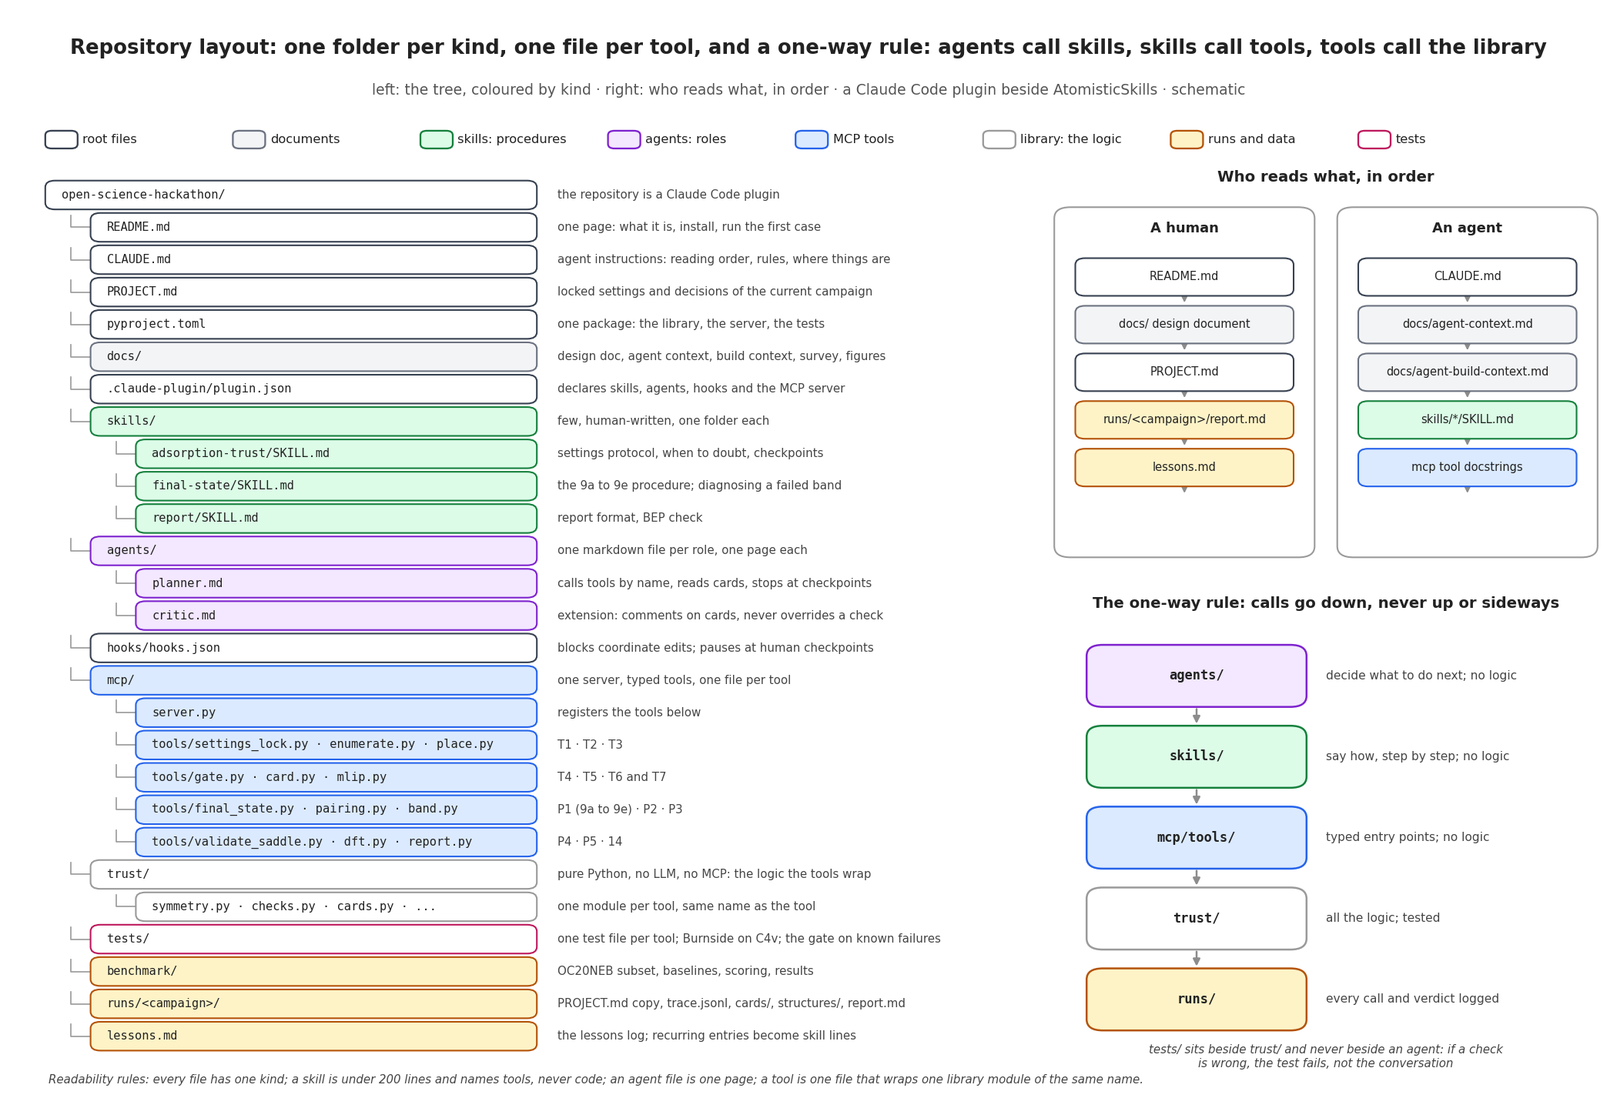
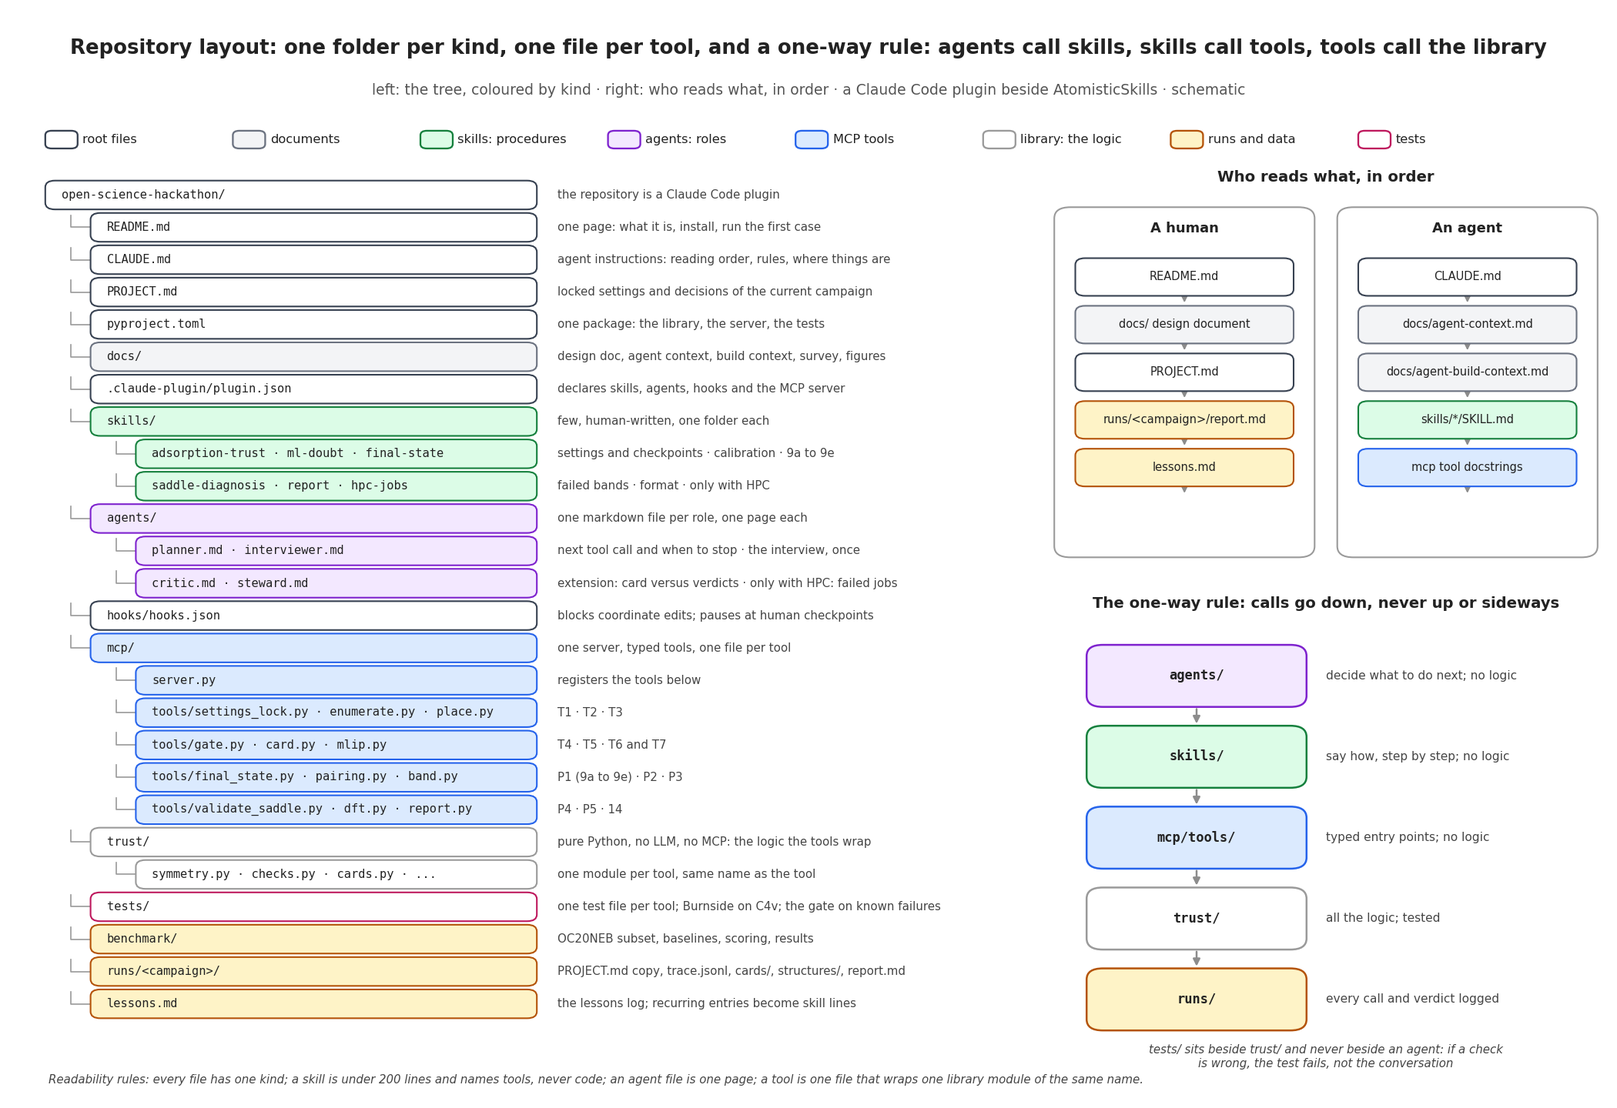
Add compute lanes and the agent and skill roster with its evidence
docs/agent-build-context.md: section 9 gains the compute lanes (laptop, GPU, HPC, and what replaces HPC in the hackathon) and the roster: five roles with what each decides, six skills of ours and six reused, with the evidence for keeping both short.
docs/adsorption-agent-workflow.md: paragraph and figure 25 under the build plan. docs/agent-context.md: lanes and roster in section 18.
docs/figures: figure 25 and script; figure 24 tree updated. READMEs: figure count.

Changed region(s): [[0.031, 0.4062, 0.5571, 0.9688]]

diff --git a/docs/figures/src/25-compute-and-roster.py b/docs/figures/src/25-compute-and-roster.py
@@ -1,0 +1,74 @@
+"""Figure 25: where each step runs (laptop, GPU, HPC) and the roster of agents and skills, with why it is short."""
+import sys, os
+sys.path.insert(0, os.path.dirname(__file__))
+from _style import *
+from matplotlib.patches import FancyBboxPatch
+
+fig = plt.figure(figsize=(14, 8.6))
+ax = fig.add_axes([0, 0, 1, 1]); ax.set_xlim(0, 1); ax.set_ylim(0, 1); ax.axis("off")
+title(fig, "HPC is needed for DFT and for nothing else; the roster is five roles and six skills at most, and the evidence says keep it short",
+      "left: where each step runs · right: agents and skills, core versus extension versus only with HPC · schematic")
+
+# ---------- left: compute lanes
+LX, LW = 0.03, 0.56
+lanes = [("Laptop: code", "#f3f4f6", "#6b7280", 0.79,
+          ["1 lock: read the protocol", "2 to 4 enumerate, place", "4.1, 6, 9d the gate", "9a, 9b sites and pairs", "10 mapping, pairing", "12 saddle checks", "14 report, trace"]),
+         ("GPU: machine-learned potential", HI_FACE, HI_EDGE, 0.60,
+          ["5 ML relaxation", "7 committee disagreement", "9c relax each pair", "11 ML band, climbing image", "12 ML frequencies"]),
+         ("HPC: DFT", "#fee2e2", "#b91c1c", 0.41,
+          ["1 settings sweep on E_ads", "7 calibration labels", "13 DFT single points, relax", "benchmark DFT check", "DFT frequencies, optional"])]
+for name, fc, ec, y, chips in lanes:
+    ax.add_patch(FancyBboxPatch((LX, y - 0.15), LW, 0.15, boxstyle="round,pad=0.003,rounding_size=0.01", fc=fc, ec=ec, lw=1.2, zorder=1))
+    ax.text(LX + 0.01, y - 0.012, name, ha="left", va="top", fontsize=9, fontweight="bold", color=ec, zorder=3)
+    cx, cy = LX + 0.012, y - 0.045
+    for c in chips:
+        w = 0.0062 * len(c) + 0.014
+        if cx + w > LX + LW - 0.01:
+            cx = LX + 0.012; cy -= 0.042
+        ax.add_patch(FancyBboxPatch((cx, cy - 0.028), w, 0.028, boxstyle="round,pad=0.002,rounding_size=0.008", fc="white", ec=ec, lw=0.9, zorder=2))
+        ax.text(cx + w / 2, cy - 0.014, c, ha="center", va="center", fontsize=7.2, zorder=3)
+        cx += w + 0.008
+# hackathon substitute for the HPC lane
+ax.add_patch(FancyBboxPatch((LX, 0.115), LW, 0.11, boxstyle="round,pad=0.003,rounding_size=0.01", fc="white", ec="#b91c1c", lw=1.2, ls="--", zorder=1))
+ax.text(LX + 0.01, 0.213, "Without HPC in the hackathon: the HPC lane is replaced, not skipped", ha="left", va="top", fontsize=8.6, fontweight="bold", color="#991b1b")
+ax.text(LX + 0.01, 0.125, "settings: take OC20's RPBE and PAW values instead of sweeping, since the benchmark is OC20NEB\n"
+                           "labels and ground truth: the released OC20NEB DFT bands stand in for steps 7 and 13 and the benchmark check\n"
+                           "one DFT check of the propagation experiment: run once beforehand, on any cluster, and recorded",
+        ha="left", va="bottom", fontsize=7.2, linespacing=1.3)
+ax.text(LX, 0.08, "Cost, from experience and not measured here: an ML relaxation of a small Pt(111) cell takes seconds on one GPU and an ML band minutes;\n"
+                   "the same relaxation in DFT takes core-hours and a DFT band many core-hours. Only the red lane needs a queue.",
+        ha="left", va="top", fontsize=7.0, style="italic", color="#444444")
+
+# ---------- right: roster
+RX = 0.63
+ax.text(RX + 0.175, 0.80, "Agents: one sentence each on what it decides", ha="center", va="center", fontsize=9, fontweight="bold")
+agents = [("planner", "the next tool call, and when to stop", "core", HI_FACE, HI_EDGE),
+          ("interviewer", "what the Formulate interview locks into PROJECT.md", "core, before the run", HI_FACE, HI_EDGE),
+          ("critic", "whether a card and its verdicts disagree; never overrides", "extension", "#f3e8ff", "#7e22ce"),
+          ("job steward", "resubmit, adjust or escalate a failed DFT job", "only with HPC", "#fee2e2", "#b91c1c"),
+          ("reviewer", "whether the report would pass peer review", "reused skill, not a new role", "#dcfce7", "#15803d")]
+y = 0.765
+for n, d, tag, fc, ec in agents:
+    ax.add_patch(FancyBboxPatch((RX, y - 0.052), 0.35, 0.052, boxstyle="round,pad=0.003,rounding_size=0.01", fc=fc, ec=ec, lw=1.1, zorder=2))
+    ax.text(RX + 0.01, y - 0.014, n, ha="left", va="center", fontsize=8.4, fontweight="bold", zorder=3)
+    ax.text(RX + 0.34, y - 0.014, tag, ha="right", va="center", fontsize=6.8, color=ec, style="italic", zorder=3)
+    ax.text(RX + 0.01, y - 0.038, d, ha="left", va="center", fontsize=7.2, zorder=3)
+    y -= 0.06
+
+ax.text(RX + 0.175, 0.445, "Skills: ours in green, reused from AtomisticSkills in grey", ha="center", va="center", fontsize=9, fontweight="bold")
+ours = ["adsorption-trust: settings protocol, checkpoints", "ml-doubt: calibration and escalation", "final-state: 9a to 9e, pairing",
+        "saddle-diagnosis: what to do when a band fails", "report: format, BEP check", "hpc-jobs: only with HPC"]
+reused = ["ml-committee-uncertainty", "ml-mlip-benchmark", "ml-mace-finetune", "chem-neb-barrier", "chem-thermochemistry", "general-peer-review"]
+y = 0.415
+for i in range(6):
+    ax.add_patch(FancyBboxPatch((RX, y - 0.03), 0.21, 0.03, boxstyle="round,pad=0.002,rounding_size=0.008", fc="#dcfce7", ec="#15803d", lw=0.9, zorder=2))
+    ax.text(RX + 0.105, y - 0.015, ours[i], ha="center", va="center", fontsize=6.9, zorder=3)
+    ax.add_patch(FancyBboxPatch((RX + 0.218, y - 0.03), 0.132, 0.03, boxstyle="round,pad=0.002,rounding_size=0.008", fc="#f3f4f6", ec="#6b7280", lw=0.9, zorder=2))
+    ax.text(RX + 0.284, y - 0.015, reused[i], ha="center", va="center", fontsize=6.9, zorder=3)
+    y -= 0.036
+
+ax.add_patch(FancyBboxPatch((RX, 0.05), 0.35, 0.13, boxstyle="round,pad=0.003,rounding_size=0.01", fc="white", ec=EDGE, lw=1.0, zorder=1))
+ax.text(RX + 0.175, 0.17, "Why short", ha="center", va="top", fontsize=8.6, fontweight="bold")
+ax.text(RX + 0.175, 0.056, "skill selection precision falls from 29.6 % with 5 skills to 3.3 % with 100\n(Demystifying Agent Skills); curated skills gain 16.2 points, self-written\nskills about none (SkillsBench); CatDT runs eight agents and has published\nno result; in the Virtual Lab the human wrote about 1 % of the words and\nset every agenda. Tools do the work; a role is added only when a human\ncan say in one sentence what it decides.",
+        ha="center", va="bottom", fontsize=6.9, linespacing=1.28)
+finish(fig, os.path.join(os.path.dirname(__file__), "..", "25-compute-and-roster.png"))

diff --git a/docs/figures/src/24-repository-layout.py b/docs/figures/src/24-repository-layout.py
@@ -32,12 +32,11 @@ tree = [
  (1, "docs", "docs/", "design doc, agent context, build context, survey, figures"),
  (1, "root", ".claude-plugin/plugin.json", "declares skills, agents, hooks and the MCP server"),
  (1, "skill", "skills/", "few, human-written, one folder each"),
- (2, "skill", "adsorption-trust/SKILL.md", "settings protocol, when to doubt, checkpoints"),
- (2, "skill", "final-state/SKILL.md", "the 9a to 9e procedure; diagnosing a failed band"),
- (2, "skill", "report/SKILL.md", "report format, BEP check"),
+ (2, "skill", "adsorption-trust · ml-doubt · final-state", "settings and checkpoints · calibration · 9a to 9e"),
+ (2, "skill", "saddle-diagnosis · report · hpc-jobs", "failed bands · format · only with HPC"),
  (1, "agent", "agents/", "one markdown file per role, one page each"),
- (2, "agent", "planner.md", "calls tools by name, reads cards, stops at checkpoints"),
- (2, "agent", "critic.md", "extension: comments on cards, never overrides a check"),
+ (2, "agent", "planner.md · interviewer.md", "next tool call and when to stop · the interview, once"),
+ (2, "agent", "critic.md · steward.md", "extension: card versus verdicts · only with HPC: failed jobs"),
  (1, "root", "hooks/hooks.json", "blocks coordinate edits; pauses at human checkpoints"),
  (1, "tool", "mcp/", "one server, typed tools, one file per tool"),
  (2, "tool", "server.py", "registers the tools below"),

diff --git a/docs/agent-build-context.md b/docs/agent-build-context.md
@@ -528,12 +528,17 @@ open-science-hackathon/
 ├── docs/                         design document, agent context, build context, survey, figures
 ├── .claude-plugin/plugin.json    declares the skills, agents, hooks and the MCP server
 ├── skills/                       few, human-written, one folder each, under 200 lines each
-│   ├── adsorption-trust/SKILL.md the settings protocol, when to doubt, the checkpoints
-│   ├── final-state/SKILL.md      the 9a to 9e procedure; diagnosing a failed band
-│   └── report/SKILL.md           the report format and the BEP check
+│   ├── adsorption-trust/SKILL.md the settings protocol and the checkpoints
+│   ├── ml-doubt/SKILL.md         calibration against DFT labels and the escalation rule
+│   ├── final-state/SKILL.md      the 9a to 9e procedure and the pairing
+│   ├── saddle-diagnosis/SKILL.md what to do when a band or a saddle fails validation
+│   ├── report/SKILL.md           the report format and the BEP check
+│   └── hpc-jobs/SKILL.md         only with HPC: submission, what custodian handles, what to escalate
 ├── agents/                       one markdown file per role, one page each
-│   ├── planner.md                calls tools by name, reads cards, stops at checkpoints
-│   └── critic.md                 extension: comments on cards, never overrides a check
+│   ├── planner.md                decides the next tool call and when to stop
+│   ├── interviewer.md            runs the Formulate interview; writes PROJECT.md; before the run
+│   ├── critic.md                 extension: whether a card and its verdicts disagree; never overrides
+│   └── steward.md                only with HPC: resubmit, adjust or escalate a failed DFT job
 ├── hooks/hooks.json              blocks coordinate edits; pauses at human checkpoints
 ├── mcp/                          one server, typed tools, one file per tool
 │   ├── server.py                 registers the tools
@@ -564,12 +569,49 @@ Reading orders:
 | A human | `README.md`, the design document in `docs/`, `PROJECT.md`, the run's `report.md`, `lessons.md`      |
 | An agent | `CLAUDE.md`, `docs/agent-context.md`, this file, the skill it was given, the tool docstrings        |
 
+### Compute: what runs where
+
+HPC is needed for DFT and for nothing else. Every check, enumeration, mapping and report runs on a laptop; every machine-learned relaxation, band and frequency runs on one GPU; every DFT step runs on a cluster. Figure 25 of the design document draws the three lanes.
+
+| Lane   | Steps                                                                                              | Without HPC in the hackathon                                                                 |
+|--------|----------------------------------------------------------------------------------------------------|----------------------------------------------------------------------------------------------|
+| Laptop | 1 lock (reads the protocol), 2 to 4, 4.1, 6, 9a, 9b, 9d, 10, 12 checks, 14                         | Unchanged                                                                                    |
+| GPU    | 5, 7 committee, 9c, 11, 12 ML frequencies                                                          | Unchanged; one workstation or cloud GPU                                                      |
+| HPC    | 1 settings sweep, 7 calibration labels, 13, the benchmark DFT check, DFT frequencies (optional)    | Replaced, not skipped: OC20's RPBE and PAW values instead of the sweep; OC20NEB's released DFT bands as labels and ground truth; one DFT check of the propagation experiment run once beforehand and recorded |
+
+Cost, from experience and not measured here: an ML relaxation of a small Pt(111) cell takes seconds on one GPU and an ML band minutes; the same relaxation in DFT takes core-hours and a DFT band many core-hours. The decision is D2 in section 8.
+
+### Agents and skills: the roster and why it is short
+
+Tools do the work. A role is added only when a human can say in one sentence what it decides, and a skill only when it is a procedure a human has written and checked. The evidence in the design document, section 8: skill selection precision falls from 29.6 % with 5 skills to 3.3 % with 100, curated skills gain about 16 points and self-written skills about none, CatDT runs eight agents and has published no result, and in the Virtual Lab the human wrote about 1 % of the words and set every agenda.
+
+| Agent       | Decides                                                       | Status                         |
+|-------------|---------------------------------------------------------------|--------------------------------|
+| planner     | The next tool call, and when to stop                          | Core                           |
+| interviewer | What the Formulate interview locks into PROJECT.md            | Core, runs once before the run |
+| critic      | Whether a card and its verdicts disagree; never overrides     | Extension                      |
+| steward     | Resubmit, adjust or escalate a failed DFT job                 | Only with HPC                  |
+| reviewer    | Whether the report would pass peer review                     | Reuse general-peer-review; not a new role |
+
+The critic and the interviewer are separate roles for one reason each: the critic must not see the planner's reasoning, or its check is anchored; the interviewer holds a fixed question list that the planner must not rewrite.
+
+| Skill, ours      | Procedure                                                      | Status         |
+|------------------|----------------------------------------------------------------|----------------|
+| adsorption-trust | Settings protocol; the checkpoints and what to show at each   | Core           |
+| ml-doubt         | Calibration against DFT labels; when to escalate               | Core           |
+| final-state      | 9a to 9e; pairing; what to report                              | Core           |
+| saddle-diagnosis | What to do when a band or saddle fails validation; revise once | Core           |
+| report           | Report format; BEP check                                       | Core           |
+| hpc-jobs         | Submission; what custodian handles; what to escalate           | Only with HPC  |
+
+Reused from AtomisticSkills: ml-committee-uncertainty, ml-mlip-benchmark, ml-mace-finetune, chem-neb-barrier, chem-thermochemistry, general-peer-review. Twelve skills in all stays well inside the range where selection precision holds.
+
 Rules that keep it readable:
 
 - One kind per file. A skill never contains code; an agent file never contains a procedure; a tool never contains logic. If a reader finds logic outside `trust/`, that is a bug.
 - One tool, one file, one library module, one test, all with the same name. `mcp/tools/gate.py` wraps `trust/checks.py` is the one allowed exception, because the gate has nine checks; name the test `tests/test_gate.py`.
-- Few agents. The planner and the human do the work; the critic is an extension. Add a role only when a human can say in one sentence what it decides.
-- Few skills. Three to start, each under 200 lines, each naming the tools it calls. Facts and ranges live in `trust/` and `PROJECT.md`, not in skills.
+- Few agents. The planner and the human do the work; the interviewer runs once; the critic is an extension; the steward exists only with HPC.
+- Few skills. Five of ours to start, six with HPC, each under 200 lines, each naming the tools it calls. Facts and ranges live in `trust/` and `PROJECT.md`, not in skills.
 - Logs live in `runs/`, never in the repository root; `lessons.md` is the one log a human edits.
 - Hooks enforce what prose cannot: the hook that blocks coordinate edits and the hook that pauses at a checkpoint sit in `hooks/hooks.json`, so the rules of section 5 do not depend on the model reading them.
 - The plugin manifest is the only place that lists skills, agents and the server, so adding one is one line there and one folder.

diff --git a/docs/adsorption-agent-workflow.md b/docs/adsorption-agent-workflow.md
@@ -780,6 +780,14 @@ Reading the figure: column 0 holds the decisions only the team can make, in grey
 
 Reading the figure: the tree on the left is coloured by kind: root files, documents, skills in green, agents in purple, MCP tools in blue, the library in white, runs and benchmark data in amber, tests outlined in pink. Each line carries a one-phrase note on what it holds. The top right gives the two reading orders, a human's from README to the design document to PROJECT.md to a run's report, and an agent's from CLAUDE.md to the agent context to the build context to the skill to the tool docstrings. The bottom right is the one-way rule: agents decide, skills say how, tools are typed entry points, the library holds every line of logic and every test, and runs hold every call and verdict. The rules under the tree keep it that way: one kind per file, skills under 200 lines that name tools and never contain code, one-page agents, and one tool per file wrapping one library module of the same name.
 
+**Compute, agents and skills.** HPC is needed for DFT and for nothing else, and the roster stays short because the tools do the work; the build context, section 9, gives the lanes and the roster.
+
+![HPC is needed for DFT and for nothing else; the roster is five roles and six skills at most](figures/25-compute-and-roster.png)
+
+*Figure: compute lanes and the roster · 3 lanes, 5 roles, 12 skills, schematic*
+
+Reading the figure: on the left, each pipeline step sits in the lane that runs it. Grey is the laptop, every check, enumeration, mapping and report. Blue is one GPU, every machine-learned relaxation, band and frequency. Red is HPC, every DFT step: the settings sweep, calibration labels, refinement, the benchmark check. The dashed red box says what replaces the HPC lane in a hackathon without a cluster: OC20's settings instead of a sweep, OC20NEB's released DFT bands as labels and ground truth, and one DFT check run beforehand. On the right, the agents are listed with the one sentence each decides and its status: planner and interviewer in the core, critic as an extension, steward only with HPC, and the reviewer as a reused skill rather than a role. Below them the six skills of ours in green and the six reused from AtomisticSkills in grey. The box at the bottom gives the evidence for keeping both lists short.
+
 **Next steps.**
 
 - [ ] Draft SKILL.md for adsorption and transition-state calculations

diff --git a/docs/agent-context.md b/docs/agent-context.md
@@ -268,6 +268,10 @@ Build order (critical path, figure 22 of the human document): 1 decide system an
 
 Repository layout (figure 24 of the human document; tree and rules in docs/agent-build-context.md section 9): a Claude Code plugin beside AtomisticSkills. Folders by kind: docs/ (what and why), skills/ (procedures, one folder each, under 200 lines, name tools, no code), agents/ (one-page roles, no procedures), hooks/ (block coordinate edits, pause at checkpoints), mcp/tools/ (one typed file per tool, no logic), trust/ (all logic, one module per tool with the same name), tests/ (one file per tool), benchmark/, runs/<campaign>/ (PROJECT.md copy, trace.jsonl, cards, structures, report), lessons.md. One-way rule: agents call skills, skills call tools, tools call the library; never up or sideways. Reading order for an agent: CLAUDE.md, agent-context.md, agent-build-context.md, the given SKILL.md, tool docstrings.
 
+Compute lanes (figure 25 of the human document): laptop for every check, enumeration, mapping and report (1 lock, 2 to 4, 4.1, 6, 9a, 9b, 9d, 10, 12 checks, 14); one GPU for every ML relaxation, band and frequency (5, 7, 9c, 11, 12); HPC for every DFT step (1 sweep, 7 labels, 13, benchmark check). Without HPC: OC20's RPBE and PAW values instead of the sweep; OC20NEB's DFT bands as labels and ground truth; one DFT check run beforehand.
+
+Roster: agents planner (next tool call, when to stop; core), interviewer (Formulate interview into PROJECT.md; core, once), critic (card versus verdicts; extension; never overrides), steward (failed DFT jobs; only with HPC); reviewer is the reused general-peer-review skill. Skills of ours: adsorption-trust, ml-doubt, final-state, saddle-diagnosis, report, and hpc-jobs only with HPC; reused: ml-committee-uncertainty, ml-mlip-benchmark, ml-mace-finetune, chem-neb-barrier, chem-thermochemistry, general-peer-review. Add a role only when a human can state in one sentence what it decides; keep skills near twelve in all.
+
 - [ ] Draft SKILL.md for adsorption and transition-state calculations
 - [ ] Draft the PROJECT.md template and the Formulate interview questions
 - [ ] Implement symmetry enumeration (sites and pairs) and the validity-check tools

diff --git a/docs/README.md b/docs/README.md
@@ -6,7 +6,7 @@
 - `agent-build-context.md`: what to build, for a coding agent or developer: owners per step, every tool with inputs, outputs, checks and thresholds, data formats, rules for the LLM, the benchmark, the build order, and the open decisions that block coding.
 - `agent-writing-style.md`: how agents write and draw for this project.
 - `CLAUDE.md`: when agents update which file.
-- `figures/`: the 24 figures as PNG files, numbered in reading order.
-- `figures/src/`: the Python (matplotlib) scripts that draw figures 13 to 24, plus `_style.py` with the shared look. Scripts for figures 1 to 12 are not in the repository.
+- `figures/`: the 25 figures as PNG files, numbered in reading order.
+- `figures/src/`: the Python (matplotlib) scripts that draw figures 13 to 25, plus `_style.py` with the shared look. Scripts for figures 1 to 12 are not in the repository.
 
 Open the folder in any Markdown viewer (GitHub, VS Code, Obsidian, Typora) and the figures display inline. Equations use `$$ … $$` (LaTeX), which GitHub, VS Code and Obsidian render.

diff --git a/README.md b/README.md
@@ -17,5 +17,5 @@ An AI agent that computes adsorption energies on catalyst surfaces reliably, and
     ├── repo-survey.md                 repositories to wrap or copy, licences, recommended stack
     ├── agent-writing-style.md         how agents write and draw for this project
     └── figures/                       PNG figures for the design doc, numbered in reading order
-        └── src/                       matplotlib scripts for figures 13 to 24
+        └── src/                       matplotlib scripts for figures 13 to 25
 ```
